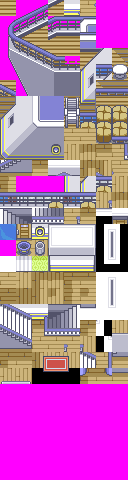
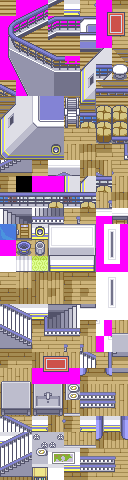
Added room 1

diff --git a/src/data/tilesets/graphics.h b/src/data/tilesets/graphics.h
@@ -1710,3 +1710,22 @@ const u16 gTilesetPalettes_FireRed_General_Test[][16] =
 };
 
 const u32 gTilesetTiles_FireRed_General_Test[] = INCBIN_U32("data/tilesets/primary/fire_red_general_test/tiles.4bpp.lz");
+
+const u16 gTilesetPalettes_FireRed_SS_ANNE_Cont[][16] =
+{
+    INCBIN_U16("data/tilesets/secondary/fire_red_ss_anne_cont/palettes/00.gbapal"),
+    INCBIN_U16("data/tilesets/secondary/fire_red_ss_anne_cont/palettes/01.gbapal"),
+    INCBIN_U16("data/tilesets/secondary/fire_red_ss_anne_cont/palettes/02.gbapal"),
+    INCBIN_U16("data/tilesets/secondary/fire_red_ss_anne_cont/palettes/03.gbapal"),
+    INCBIN_U16("data/tilesets/secondary/fire_red_ss_anne_cont/palettes/04.gbapal"),
+    INCBIN_U16("data/tilesets/secondary/fire_red_ss_anne_cont/palettes/05.gbapal"),
+    INCBIN_U16("data/tilesets/secondary/fire_red_ss_anne_cont/palettes/06.gbapal"),
+    INCBIN_U16("data/tilesets/secondary/fire_red_ss_anne_cont/palettes/07.gbapal"),
+    INCBIN_U16("data/tilesets/secondary/fire_red_ss_anne_cont/palettes/08.gbapal"),
+    INCBIN_U16("data/tilesets/secondary/fire_red_ss_anne_cont/palettes/09.gbapal"),
+    INCBIN_U16("data/tilesets/secondary/fire_red_ss_anne_cont/palettes/10.gbapal"),
+    INCBIN_U16("data/tilesets/secondary/fire_red_ss_anne_cont/palettes/11.gbapal"),
+    INCBIN_U16("data/tilesets/secondary/fire_red_ss_anne_cont/palettes/12.gbapal"),
+};
+
+const u32 gTilesetTiles_FireRed_SS_ANNE_Cont[] = INCBIN_U32("data/tilesets/secondary/fire_red_ss_anne_cont/tiles.4bpp.lz");

diff --git a/include/constants/map_groups.h b/include/constants/map_groups.h
@@ -67,8 +67,7 @@
 #define MAP_ISLAND_JUNGLE_ROUTE1        (58 | (0 << 8))
 #define MAP_FOREST_BASE_CAMP_INTERIOR1F (59 | (0 << 8))
 #define MAP_FOREST_BASE_CAMP_INTERIOR2F (60 | (0 << 8))
-#define MAP_PORY_TILE_TEST1             (61 | (0 << 8))
-#define MAP_SS_RAIN_STAIRS              (62 | (0 << 8))
+#define MAP_ISLANDGAME_SS_RAIN_ROOM1    (61 | (0 << 8))
 
 // gMapGroup_IndoorLittleroot
 #define MAP_LITTLEROOT_TOWN_BRENDANS_HOUSE_1F    (0 | (1 << 8))
@@ -597,6 +596,11 @@
 // gMapGroup_IndoorRoute124
 #define MAP_ROUTE124_DIVING_TREASURE_HUNTERS_HOUSE (0 | (33 << 8))
 
-#define MAP_GROUPS_COUNT 34
+// gMapGroup_SS_Rain
+#define MAP_PORY_TILE_TEST1 (0 | (34 << 8))
+#define MAP_SS_RAIN_STAIRS  (1 | (34 << 8))
+#define MAP_SS_RAIN_HALLWAY (2 | (34 << 8))
+
+#define MAP_GROUPS_COUNT 35
 
 #endif // GUARD_CONSTANTS_MAP_GROUPS_H

diff --git a/src/data/tilesets/metatiles.h b/src/data/tilesets/metatiles.h
@@ -219,3 +219,6 @@ const u16 gMetatileAttributes_PorytilesSecondaryTest[] = INCBIN_U16("data/tilese
 
 const u16 gMetatiles_FireRed_General_Test[] = INCBIN_U16("data/tilesets/primary/fire_red_general_test/metatiles.bin");
 const u16 gMetatileAttributes_FireRed_General_Test[] = INCBIN_U16("data/tilesets/primary/fire_red_general_test/metatile_attributes.bin");
+
+const u16 gMetatiles_FireRed_SS_ANNE_Cont[] = INCBIN_U16("data/tilesets/secondary/fire_red_ss_anne_cont/metatiles.bin");
+const u16 gMetatileAttributes_FireRed_SS_ANNE_Cont[] = INCBIN_U16("data/tilesets/secondary/fire_red_ss_anne_cont/metatile_attributes.bin");

diff --git a/src/map_name_popup.c b/src/map_name_popup.c
@@ -174,7 +174,8 @@ static const u8 sRegionMapSectionId_To_PopUpThemeIdMapping[] =
     [MAPSEC_DESERT_UNDERPASS - KANTO_MAPSEC_COUNT] = MAPPOPUP_THEME_STONE,
     [MAPSEC_ALTERING_CAVE - KANTO_MAPSEC_COUNT] = MAPPOPUP_THEME_STONE,
     [MAPSEC_NAVEL_ROCK - KANTO_MAPSEC_COUNT] = MAPPOPUP_THEME_STONE,
-    [MAPSEC_TRAINER_HILL - KANTO_MAPSEC_COUNT] = MAPPOPUP_THEME_MARBLE
+    [MAPSEC_TRAINER_HILL - KANTO_MAPSEC_COUNT] = MAPPOPUP_THEME_MARBLE,
+    [MAPSEC_SS_RAIN - KANTO_MAPSEC_COUNT] = MAPPOPUP_THEME_STONE2
 };
 
 static const u8 sText_PyramidFloor1[] = _("PYRAMID FLOOR 1");

diff --git a/src/data/tilesets/headers.h b/src/data/tilesets/headers.h
@@ -869,3 +869,14 @@ const struct Tileset gTileset_FireRed_General_Test =
     .metatileAttributes = gMetatileAttributes_FireRed_General_Test,
     .callback = InitTilesetIsland_Anim_Firered_Water,
 };
+
+const struct Tileset gTileset_FireRed_SS_ANNE_Cont =
+{
+    .isCompressed = TRUE,
+    .isSecondary = TRUE,
+    .tiles = gTilesetTiles_FireRed_SS_ANNE_Cont,
+    .palettes = gTilesetPalettes_FireRed_SS_ANNE_Cont,
+    .metatiles = gMetatiles_FireRed_SS_ANNE_Cont,
+    .metatileAttributes = gMetatileAttributes_FireRed_SS_ANNE_Cont,
+    .callback = NULL,
+};

diff --git a/include/constants/region_map_sections.h b/include/constants/region_map_sections.h
@@ -214,7 +214,8 @@
 #define MAPSEC_ALTERING_CAVE                0xD2
 #define MAPSEC_NAVEL_ROCK                   0xD3
 #define MAPSEC_TRAINER_HILL                 0xD4
-#define MAPSEC_NONE                         0xD5
+#define MAPSEC_SS_RAIN                      0xD5
+#define MAPSEC_NONE                         0xD6
 
 #define METLOC_SPECIAL_EGG                  0xFD
 #define METLOC_IN_GAME_TRADE                0xFE

diff --git a/include/constants/metatile_labels.h b/include/constants/metatile_labels.h
@@ -187,6 +187,9 @@
 #define METATILE_Fallarbor_RedCaveEntrance_Top       0x347
 #define METATILE_Fallarbor_RedRockWall               0x269
 
+// gTileset_FireRed
+#define METATILE_FireRed_General_Test_Door  0x071
+
 // gTileset_Fortree
 #define METATILE_Fortree_BridgeOverGrass_Lowered           0x24F
 #define METATILE_Fortree_BridgeOverGrass_Raised            0x24E

diff --git a/src/data/map_group_count.h b/src/data/map_group_count.h
@@ -1,1 +1,1 @@
-static const u8 MAP_GROUP_COUNT[] = {63, 5, 5, 6, 7, 8, 9, 7, 7, 14, 8, 17, 10, 23, 13, 15, 15, 2, 2, 2, 3, 1, 1, 1, 108, 61, 89, 2, 1, 13, 1, 1, 3, 1, 0};
+static const u8 MAP_GROUP_COUNT[] = {62, 5, 5, 6, 7, 8, 9, 7, 7, 14, 8, 17, 10, 23, 13, 15, 15, 2, 2, 2, 3, 1, 1, 1, 108, 61, 89, 2, 1, 13, 1, 1, 3, 1, 3, 0};

diff --git a/include/constants/layouts.h b/include/constants/layouts.h
@@ -452,5 +452,7 @@
 #define LAYOUT_FOREST_BASE_CAMP_INTERIOR2F 445
 #define LAYOUT_PORY_TILE_TEST1 446
 #define LAYOUT_SS_RAIN_STAIRS 447
+#define LAYOUT_SS_RAIN_HALLWAY 448
+#define LAYOUT_ISLANDGAME_SS_RAIN_ROOM1 449
 
 #endif // GUARD_CONSTANTS_LAYOUTS_H
